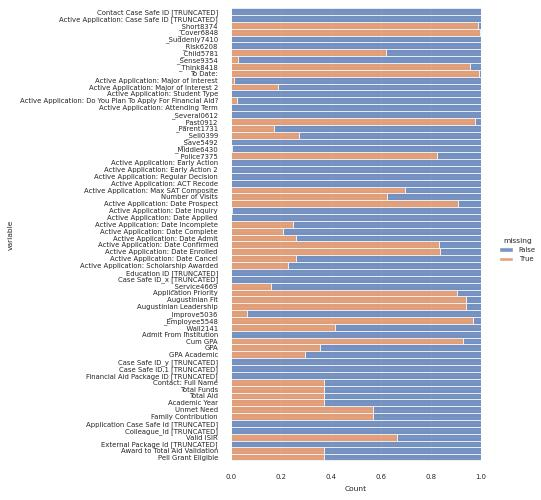
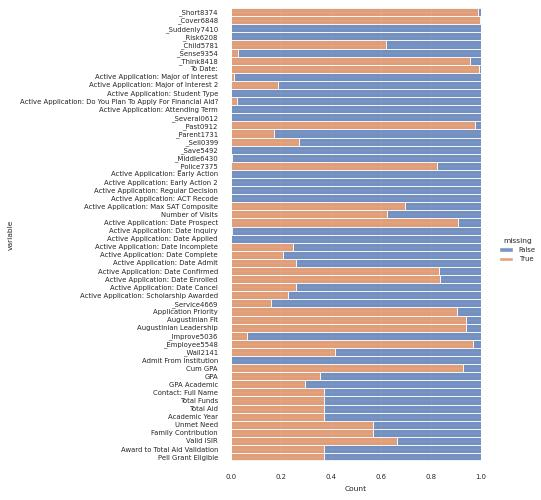
added corr matrix, started separating cat/nums vars -> updated prev graph

diff --git a/admissions.py b/admissions.py
@@ -11,21 +11,62 @@
 import matplotlib.pyplot as plt
 import pandas as pd
 import seaborn as sns
+import numpy as np
+from sklearn.model_selection import train_test_split
+
+np.random.seed(1128) # consistency
 
 # Data Processing
 students = pd.read_csv("admissions_data.csv")
 print(students.head(), students.shape)
 
+removable = ["Contact Case Safe ID [TRUNCATED]", "Active Application: Case Safe ID [TRUNCATED]", # hard-coded
+             "Education ID [TRUNCATED]", "Case Safe ID_x [TRUNCATED]",
+             "Case Safe ID_y [TRUNCATED]", "Case Safe ID.1 [TRUNCATED]",
+             "Financial Aid Package ID [TRUNCATED]", "Application Case Safe Id [TRUNCATED]",
+             "Colleague_Id [TRUNCATED]", "External Package Id [TRUNCATED]"]
+for to_remove in removable:
+  students = students.drop(to_remove, axis=1)
+print(students.head(), students.shape)
+
+train, test = train_test_split(students,test_size=.20)
+
+# Separate cat/num vars
+cat_vars = []
+num_vars = []
+for column in students.columns: # NOTE: add in skipping id entries (or drop them)
+  if students[column].dtype.name == "int64" or students[column].dtype.name == "float64":
+    num_vars.append(column)
+  else:
+    cat_vars.append(column)
+
+# print("CAT VARS: \n%s\nLen: %d" % (cat_vars, len(cat_vars)))
+# print("NUM VARS: \n%s\nLen: %d" % (num_vars, len(num_vars)))
+
+# Convert cat to num
+from sklearn.preprocessing import LabelEncoder
+le = LabelEncoder()
+# WIP
+
 # Missing Data Plot
 plt.figure(figsize=(10,6))
 sns.set(font_scale=.45)
 sns.displot(
-    data=students.isna().melt(value_name="missing"),
-    y="variable",
-    hue="missing",
-    multiple="fill"
+  data=students.isna().melt(value_name="missing"),
+  y="variable",
+  hue="missing",
+  multiple="fill"
 )
 plt.savefig("null_entries.jpg")
 plt.close()
-sns.set(font_scale=1) # reset, just in case
+#sns.set(font_scale=1) # reset, just in case
 
+# Correlation Matrix (numerical)
+sns.set(font_scale=.6) # .6
+corrMatrix = train[num_vars].corr()
+sns.heatmap(corrMatrix, annot=True)
+plt.savefig("correlation_matrix.png")
+plt.close()
+
+# MICE DATA IMPUTATION #
+# from miceforest import ImputationKernel # ask Mike!
